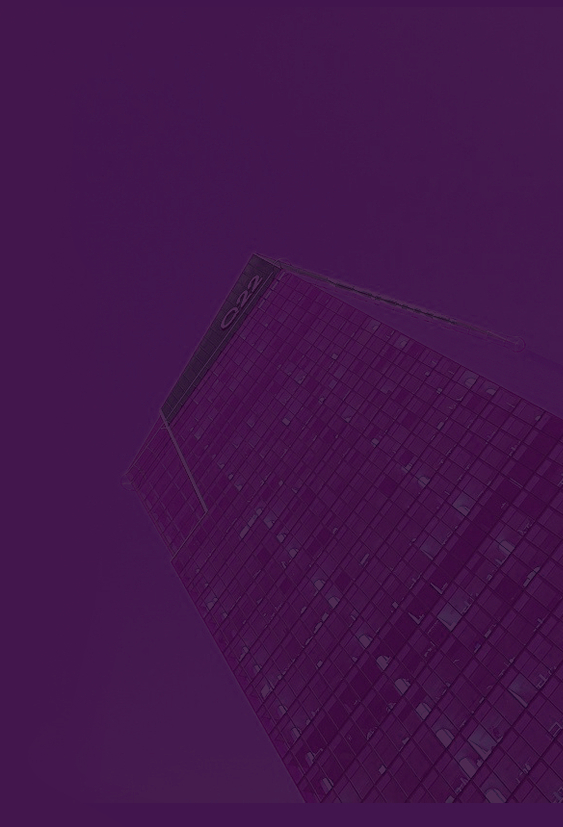
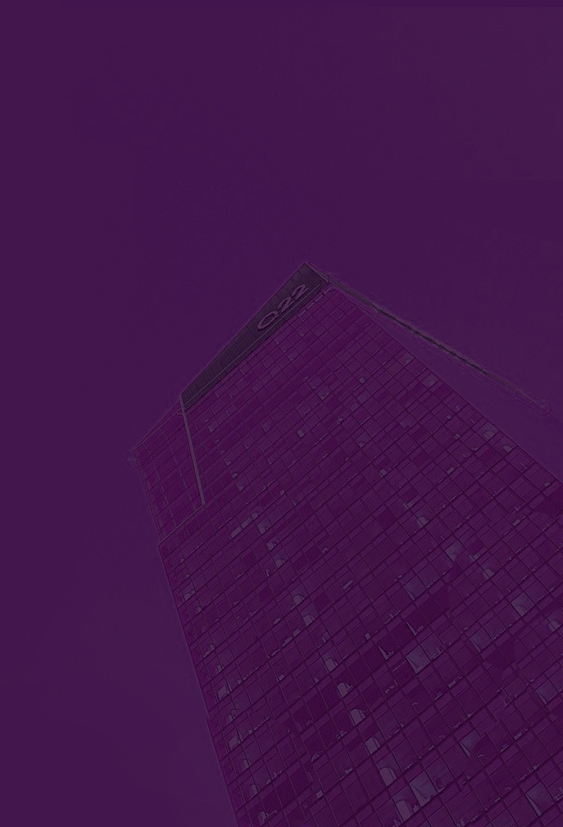
x m padding

diff --git a/assets/css/style.css b/assets/css/style.css
@@ -286,7 +286,7 @@ header {
 .contact {
   background-image: url(../img/contact_right2.png),
     url(../img/contact_right.jpg);
-  background-size: 35%, 50%;
+  background-size: 35%, 60%;
   background-position: left bottom, right bottom;
   background-repeat: no-repeat;
   background-color: rgb(67, 22, 77);
@@ -336,7 +336,10 @@ header {
   /* width: 25%; */
 }
 .offer .m_circle {
-  margin: 1rem 1rem 2.5rem 1rem;
+  margin: 1rem 1rem 2.5rem 0.5rem;
+}
+.offer .close{
+    padding-right: 0.5rem;
 }
 .close {
   font-size: 1.5rem;

diff --git a/assets/css/responsive.css b/assets/css/responsive.css
@@ -125,10 +125,17 @@
     font-size: 1rem;
   }
 }
+/* xlarge========================================================================== */
 
+@media (min-device-width:1440px) {
+  .contact {
+    background-size: 30%, 60%;
+    width: 35%;
+  }
+}
 @media (min-device-width: 2350px) {
   .contact {
-    background-size: 30%, 35%;
+    background-size: 30%, 45%;
     width: 35%;
   }
   .offer ul li {
